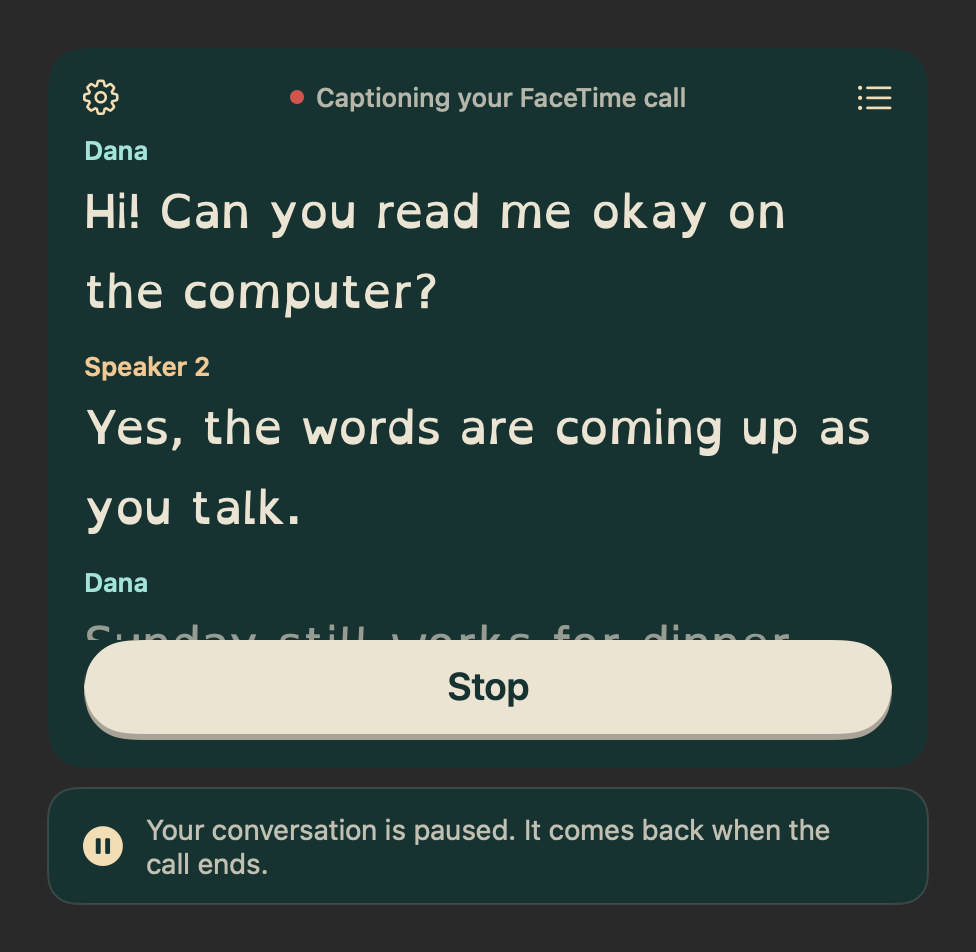
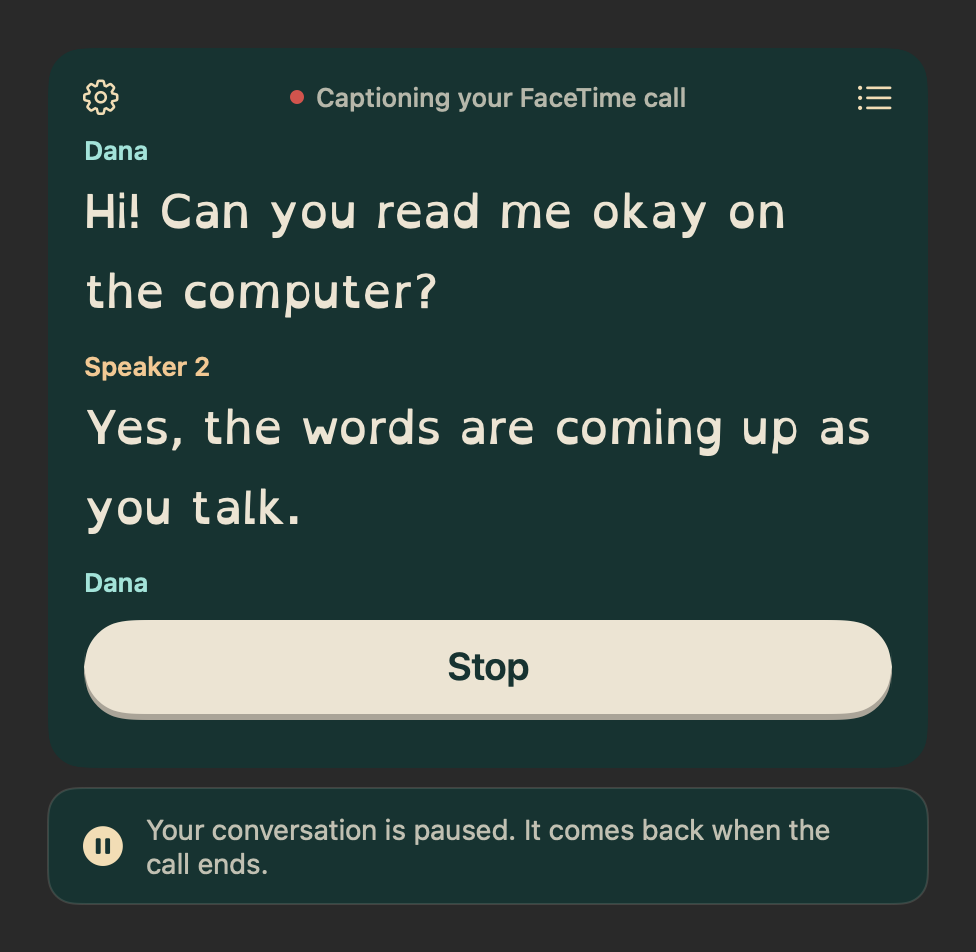
Mac: every call offers to caption it, in the window and as a notification; more room under Stop (#178)
Owner, 2026-10-28 ~21:05 UTC: "it always gives the option to caption when a
call comes in", and "a little more buffer" under the Stop button.
- CallArrival: every call rings, captions on or off. With captions off,
  Caption call captions the call and, at its end, puts back the conversation
  that was on screen with captions still off (new restoreRoom effect).
  Whether to resume is judged when Caption call is tapped. 18 tests.
- CallNotifier: a macOS notification "You're getting a call" with Caption call
  / Not now when the window isn't in front or is hidden; removed once it's
  answered either way or the call ends. Caption call brings the window forward.
- Banner reads "Caption the call?" when there's no conversation to pause;
  the paused note only shows when a conversation with words was set aside.
- Stop's bottom padding 14 -> 24 pt.
Why no offer showed in his test: the build he ran was #172's, which has no
call watcher; and my build, idle, followed the earlier d5 (no banner).
CaptionCore: 775 tests, 0 failures.

Refs #178

Claude-Session: https://claude.ai/code/session_013wtERcznEHZfj6JwiA5Wiu

Changed region(s): [[0.0615, 0.6397, 0.9221, 0.792]]

diff --git a/Apps/Mac/Sources/CallFlow.swift b/Apps/Mac/Sources/CallFlow.swift
@@ -20,8 +20,10 @@ final class CallFlow: ObservableObject {
 
     private unowned let model: CaptionMacModel
     private let watcher = CallWatcher()
+    private let notifier = CallNotifier()
     @Published private var pausedRoom: (stream: CaptionStream, names: SpeakerNames, session: ConversationSession)?
-    var hasPausedRoom: Bool { pausedRoom != nil }
+    /// A conversation with words was set aside for the call (an empty window has nothing to come back to).
+    var hasPausedRoom: Bool { pausedRoom.map { ConversationSession.hasContent($0.stream.lines) } ?? false }
     private var callStartedAt = Date()
     private var queue: Task<Void, Never>?
     init(model: CaptionMacModel) { self.model = model }
@@ -29,7 +31,12 @@ final class CallFlow: ObservableObject {
     /// Called once the window is up. The watcher always runs, so the top bar can name a call app that is really in a
     /// call; the call-arriving flow only when #178 is on.
     func start() {
-        if Self.isEnabled { model.listenOverride = .roomOnly }
+        if Self.isEnabled {
+            model.listenOverride = .roomOnly
+            notifier.onCaption = { [weak self] in self?.send(.captionCall) }
+            notifier.onNotNow = { [weak self] in self?.send(.notNow) }
+            notifier.setUp()
+        }
         watcher.onChange = { [weak self] app in
             guard let self else { return }
             let wasLive = self.callApp != nil
@@ -45,7 +52,12 @@ final class CallFlow: ObservableObject {
 
     func send(_ event: CallArrival.Event) {
         let captioning = model.state == .listening || model.state == .preparing
+        let wasRinging = arrival.banner == .ringing
         let effects = arrival.handle(event, captioning: captioning)
+        // The notification: up when the call starts ringing and she isn't looking at the window, gone once it's answered
+        // either way or the call ends.
+        if arrival.banner == .ringing, !wasRinging, !CallNotifier.windowInFront { notifier.show(detail: ringingDetail) }
+        if wasRinging, arrival.banner != .ringing { notifier.remove() }
         NSLog("[calls] %@ while %@ -> %@ %@", "\(event)", captioning ? "captioning" : "not captioning", "\(arrival.step)", "\(effects)")
         guard !effects.isEmpty else { return }
         let previous = queue
@@ -53,6 +65,14 @@ final class CallFlow: ObservableObject {
             await previous?.value
             for effect in effects { await self?.perform(effect) }
         }
+    }
+
+    /// Whether there's a conversation on screen for a call to pause.
+    var hasConversation: Bool { ConversationSession.hasContent(model.stream.lines) }
+
+    /// The ringing banner's question: pausing only makes sense with a conversation on screen.
+    var ringingDetail: String {
+        hasConversation ? String(localized: "Pause this conversation and caption the call?") : String(localized: "Caption the call?")
     }
 
     /// The pop-up's top-bar words; nil keeps its own ("Listening", "Captioning"). A call app is named only while its call
@@ -91,10 +111,11 @@ final class CallFlow: ObservableObject {
                 // Into the same saved list as every conversation (Saved, kept 30 days).
                 try? await model.store?.save(SavedConversation.from(sessionStart: callStartedAt, lines: lines, speakerNames: model.speakerNames))
             }
-            finishCall()
         case .resumeRoom:
             finishCall()
             model.start()
+        case .restoreRoom:
+            finishCall()
         }
     }
 
@@ -122,7 +143,7 @@ struct CallBannerSlot: View {
         Group {
             switch calls.arrival.banner {
             case .ringing:
-                CallBannerView(kind: .ringing, style: style, onPrimary: { calls.send(.captionCall) }, onSecondary: { calls.send(.notNow) })
+                CallBannerView(kind: .ringing, style: style, detailOverride: calls.ringingDetail, onPrimary: { calls.send(.captionCall) }, onSecondary: { calls.send(.notNow) })
             case .ended:
                 CallBannerView(kind: .ended, style: style, onPrimary: { calls.send(.saveTranscript) }, onSecondary: { calls.send(.returnToConversation) })
             case nil:
@@ -157,12 +178,14 @@ extension CallFlow {
             DispatchQueue.main.asyncAfter(deadline: .now() + seconds) { MainActor.assumeIsolated { work() } }
         }
         let shot = { (name: String) in if let shots { Self.snapshotWindow(to: URL(fileURLWithPath: shots).appendingPathComponent("\(name).png")) } }
-        // The app opens with captions off (#188): press Start, as the owner would, so the call finds them running.
-        at(1) { self.model.start() }
+        // The app opens with captions off (#188): press Start, as the owner would, unless `-SealFakeStart no`.
+        if defaults.string(forKey: "SealFakeStart") != "no" { at(1) { self.model.start() } }
+        // `-SealFakeHide yes`: the app hidden (⌘H) when the call comes, so the offer comes as a notification.
+        if defaults.string(forKey: "SealFakeHide") == "yes" { at(times[0] - 0.5) { NSApp.hide(nil) } }
         at(times[0] - 1) { shot("0-room") }
         at(times[0]) { self.callApp = "FaceTime"; self.send(.callStarted) }
         at(times[0] + 1.2) { shot("1-ringing") }
-        at(times[0] + 2) { self.send(choice) }
+        at(times[0] + 2) { if choice == .captionCall { CallNotifier.bringWindowForward() }; self.send(choice) }
         at(times[1] - 1) { shot("2-call") }
         at(times[1]) { self.callApp = nil; self.send(.callEnded) }
         at(times[1] + 1.5) { shot("3-ended") }

diff --git a/Apps/Mac/Sources/CallNotifier.swift b/Apps/Mac/Sources/CallNotifier.swift
@@ -1,0 +1,81 @@
+import AppKit
+import UserNotifications
+
+/// The macOS notification for a call arriving (#178, owner 2026-10-28 ~21:05 UTC: Seal Speak always offers to caption a
+/// call). Shown when the window isn't in front or is hidden, with the banner's own words and choices. It can only come
+/// while Seal Speak is running (window or menu bar): macOS doesn't start an app for another app's call.
+@MainActor
+final class CallNotifier: NSObject, UNUserNotificationCenterDelegate {
+    static let category = "seal.call"
+    static let captionAction = "seal.call.caption"
+    static let notNowAction = "seal.call.notnow"
+    static let requestID = "seal.call.ringing"
+
+    var onCaption: () -> Void = {}
+    var onNotNow: () -> Void = {}
+
+    private var center: UNUserNotificationCenter { .current() }
+
+    /// Once, at start: the choices, and macOS's "allow notifications" question the first time.
+    func setUp() {
+        center.delegate = self
+        let caption = UNNotificationAction(identifier: Self.captionAction, title: String(localized: "Caption call"), options: [.foreground])
+        let notNow = UNNotificationAction(identifier: Self.notNowAction, title: String(localized: "Not now"), options: [])
+        center.setNotificationCategories([UNNotificationCategory(identifier: Self.category, actions: [caption, notNow], intentIdentifiers: [])])
+        center.requestAuthorization(options: [.alert, .sound]) { granted, error in
+            NSLog("[calls] notifications %@%@", granted ? "allowed" : "not allowed", error.map { " (\($0))" } ?? "")
+        }
+    }
+
+    /// Whether the window is where she'd see the banner: the app in front, not hidden, the window on screen.
+    static var windowInFront: Bool {
+        NSApp.isActive && !NSApp.isHidden
+            && NSApp.windows.contains { $0.title == CaptionMacApp.windowTitle && $0.isVisible && $0.isOnActiveSpace }
+    }
+
+    func show(detail: String) {
+        let content = UNMutableNotificationContent()
+        content.title = String(localized: "You're getting a call")
+        content.body = detail
+        content.categoryIdentifier = Self.category
+        content.sound = .default
+        center.add(UNNotificationRequest(identifier: Self.requestID, content: content, trigger: nil)) { error in
+            NSLog("[calls] notification %@", error.map { "failed: \($0)" } ?? "posted")
+        }
+    }
+
+    func remove() {
+        center.removePendingNotificationRequests(withIdentifiers: [Self.requestID])
+        center.removeDeliveredNotifications(withIdentifiers: [Self.requestID])
+    }
+
+    /// Brings the window forward, unhiding the app (⌘H) if need be, so the call's captions are in view.
+    static func bringWindowForward() {
+        NSApp.unhide(nil)
+        NSApp.activate()
+        NSApp.windows.first { $0.title == CaptionMacApp.windowTitle }?.makeKeyAndOrderFront(nil)
+    }
+
+    nonisolated func userNotificationCenter(_ center: UNUserNotificationCenter, willPresent notification: UNNotification,
+                                            withCompletionHandler completionHandler: @escaping (UNNotificationPresentationOptions) -> Void) {
+        completionHandler([.banner, .sound])
+    }
+
+    nonisolated func userNotificationCenter(_ center: UNUserNotificationCenter, didReceive response: UNNotificationResponse,
+                                            withCompletionHandler completionHandler: @escaping () -> Void) {
+        let action = response.actionIdentifier
+        Task { @MainActor in
+            switch action {
+            case Self.captionAction:
+                Self.bringWindowForward()
+                self.onCaption()
+            case Self.notNowAction:
+                self.onNotNow()
+            default:
+                // A click on the notification itself: show the window with the banner, choice still open.
+                Self.bringWindowForward()
+            }
+            completionHandler()
+        }
+    }
+}

diff --git a/Packages/CaptionCore/Tests/CaptionCoreTests/CallArrivalTests.swift b/Packages/CaptionCore/Tests/CaptionCoreTests/CallArrivalTests.swift
@@ -55,16 +55,37 @@ final class CallArrivalTests: XCTestCase {
         XCTAssertFalse(effects.contains(.saveCall))
     }
 
-    func testAnsweredWhileNotCaptioningGoesStraightToTheCall() {
+    func testACallWhileCaptionsAreOffStillRings() {
+        // Owner, 2026-10-28 ~21:05 UTC: whenever a call comes in, Seal Speak always offers to caption it.
         let (flow, effects) = run([(.callStarted, false)])
-        XCTAssertEqual(flow.step, .call)
-        XCTAssertEqual(effects, [.startCall], "nothing to pause, no banner")
+        XCTAssertEqual(flow.step, .ringing)
+        XCTAssertEqual(flow.banner, .ringing)
+        XCTAssertEqual(effects, [], "nothing starts until they choose")
     }
 
-    func testAfterACallThatInterruptedNothingTheRoomIsNotStartedBehindTheirBack() {
-        let (flow, effects) = run([(.callStarted, false), (.callEnded, false), (.saveTranscript, false)])
+    func testNotNowWithCaptionsOffLeavesThemOff() {
+        let (flow, effects) = run([(.callStarted, false), (.notNow, false), (.callEnded, false)])
         XCTAssertEqual(flow.step, .room)
-        XCTAssertEqual(effects, [.startCall, .stopCall, .saveCall], "the room wasn't being captioned, so don't resume it")
+        XCTAssertEqual(effects, [])
+    }
+
+    func testCaptionCallWithCaptionsOffCaptionsTheCallThenPutsTheConversationBackWithoutStartingIt() {
+        let (flow, effects) = run([(.callStarted, false), (.captionCall, false), (.callEnded, true), (.saveTranscript, false)])
+        XCTAssertEqual(flow.step, .room)
+        XCTAssertEqual(effects, [.pauseRoom, .startCall, .stopCall, .saveCall, .restoreRoom],
+                       "the conversation on screen comes back, but captions weren't on, so they stay off")
+    }
+
+    func testReturnWithCaptionsOffAlsoPutsTheConversationBack() {
+        let (_, effects) = run([(.callStarted, false), (.captionCall, false), (.callEnded, true), (.returnToConversation, false)])
+        XCTAssertEqual(effects.last, .restoreRoom)
+        XCTAssertFalse(effects.contains(.resumeRoom))
+    }
+
+    func testWhetherToResumeIsJudgedWhenTheyTapCaptionCall() {
+        // Captions turned on while the banner was up: they were captioning when the call took over, so resume after.
+        let (_, effects) = run([(.callStarted, false), (.captionCall, true), (.callEnded, true), (.returnToConversation, false)])
+        XCTAssertEqual(effects.last, .resumeRoom)
     }
 
     func testAButtonFromAStaleBannerDoesNothing() {
@@ -101,5 +122,15 @@ final class CallArrivalTests: XCTestCase {
         let (flow, effects) = run(one + [(.callStarted, true)])
         XCTAssertEqual(flow.step, .ringing)
         XCTAssertEqual(effects, [.pauseRoom, .startCall, .stopCall, .resumeRoom])
+    }
+
+    func testEveryEndOfCallPutsAConversationBack() {
+        // Whatever was on screen before the call, the call view never stays behind after the answer.
+        for captioning in [true, false] {
+            for answer in [CallArrival.Event.saveTranscript, .returnToConversation] {
+                let (_, effects) = run([(.callStarted, captioning), (.captionCall, captioning), (.callEnded, true), (answer, false)])
+                XCTAssertTrue(effects.last == .resumeRoom || effects.last == .restoreRoom, "\(captioning) \(answer)")
+            }
+        }
     }
 }

diff --git a/Packages/CaptionCore/Sources/CaptionCore/CallArrival.swift b/Packages/CaptionCore/Sources/CaptionCore/CallArrival.swift
@@ -7,7 +7,8 @@ import Foundation
 /// - [ Caption call ]: the room's conversation is paused (kept), the call is captioned.
 /// - The call ends: captioning stops and the banner asks to save the call's transcript; either answer resumes the room,
 ///   if it was being captioned when the call came.
-/// - A call while nothing is captioned goes straight to the call, no banner.
+/// - Every call rings, captions on or off (owner, 2026-10-28 ~21:05 UTC: Seal Speak always offers to caption a call).
+///   With captions off, the conversation on screen comes back after the call, and captions stay off.
 public struct CallArrival: Equatable, Sendable {
     public enum Step: Equatable, Sendable {
         /// No call, or none we're involved in.
@@ -38,6 +39,8 @@ public struct CallArrival: Equatable, Sendable {
         case saveCall
         /// Bring the room's conversation back and carry on captioning it.
         case resumeRoom
+        /// Bring the conversation that was on screen back, captions still off (they were off when the call came).
+        case restoreRoom
     }
 
     public enum Banner: Equatable, Sendable { case ringing, ended }
@@ -60,16 +63,11 @@ public struct CallArrival: Equatable, Sendable {
     public mutating func handle(_ event: Event, captioning: Bool) -> [Effect] {
         switch (step, event) {
         case (.room, .callStarted):
-            if captioning {
-                step = .ringing
-                return []
-            }
-            step = .call
-            resumeRoomAfter = false
-            return [.startCall]
+            step = .ringing
+            return []
         case (.ringing, .captionCall):
             step = .call
-            resumeRoomAfter = true
+            resumeRoomAfter = captioning
             return [.pauseRoom, .startCall]
         case (.ringing, .notNow):
             step = .declined
@@ -83,7 +81,7 @@ public struct CallArrival: Equatable, Sendable {
         case (.ended, .saveTranscript), (.ended, .returnToConversation):
             step = .room
             var effects: [Effect] = event == .saveTranscript ? [.saveCall] : []
-            if resumeRoomAfter { effects.append(.resumeRoom) }
+            effects.append(resumeRoomAfter ? .resumeRoom : .restoreRoom)
             resumeRoomAfter = false
             return effects
         default:

diff --git a/Apps/Mac/Sources/CallBannerView.swift b/Apps/Mac/Sources/CallBannerView.swift
@@ -16,6 +16,8 @@ struct CallBannerView: View {
     let style: CaptionStyle
     /// Where the ring animation is, 0...1, for frozen screenshot frames. Nil: animate live.
     var phase: Double? = nil
+    /// The question under the title, when it differs (no conversation on screen to pause).
+    var detailOverride: String? = nil
     var onPrimary: () -> Void = {}
     var onSecondary: () -> Void = {}
 
@@ -67,7 +69,8 @@ struct CallBannerView: View {
     }
 
     private var detail: String {
-        switch kind {
+        if let detailOverride { return detailOverride }
+        return switch kind {
         case .ringing: String(localized: "Pause this conversation and caption the call?")
         case .ended: String(localized: "Save this call's transcript, or go back to your conversation where it left off.")
         }

diff --git a/Apps/Mac/Sources/CallPopupView.swift b/Apps/Mac/Sources/CallPopupView.swift
@@ -76,7 +76,7 @@ struct CallPopupView: View {
             .disabled(!buttonEnabled)
             .keyboardShortcut(.space, modifiers: [])
             .padding(.horizontal, 18)
-            .padding(.bottom, 14)
+            .padding(.bottom, 24)   // a little more room under Stop (owner, 2026-10-28)
         }
         .background(style.background.color)
         .environment(\.colorScheme, style.background.isDark ? .dark : .light)
